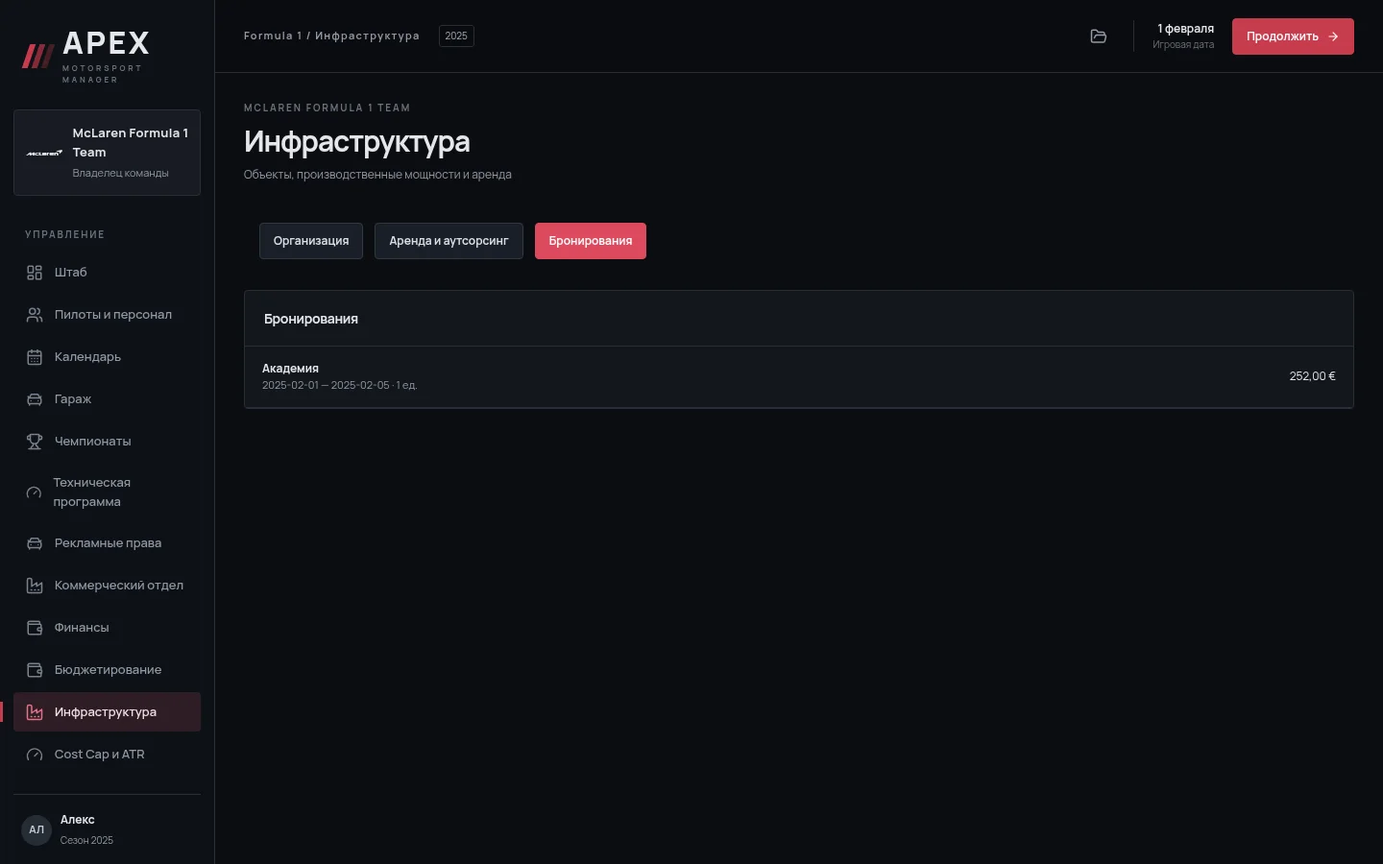
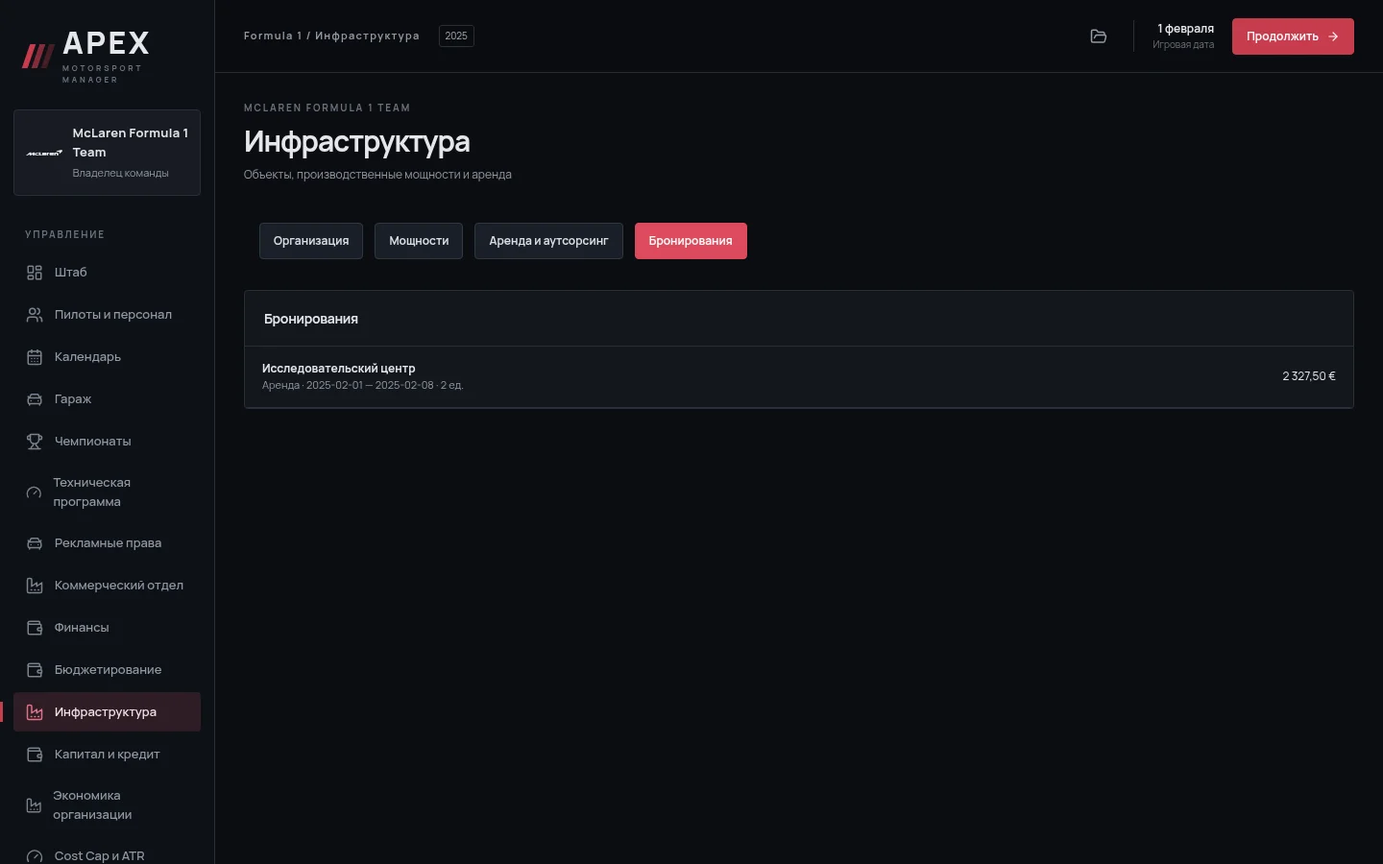
Зафиксировать источники, сравнение экономики и снимки интерфейсов PR #53

Changed region(s): [[0.2812, 0.2489, 0.5625, 0.3111], [0.0, 0.8711, 0.0938, 0.9956], [0.1875, 0.4044, 0.3125, 0.4667]]

diff --git a/docs/issue-6/season-2025.md b/docs/issue-6/season-2025.md
@@ -1,0 +1,92 @@
+# Партнёры сезона 2025 и повторная приёмка PR #53
+
+## Источники и покрытие
+
+В реестре 126 уникальных пар «бренд и организация» у 45 из 112 организаций с заявками. Для каждой пары сохранены первичная ссылка, программы, дата действия в игре и пояснение к свидетельству. На дату старта карьеры 1 февраля действуют 100 соглашений. Ещё 26 вступают в силу позднее в сезоне. В реестре 55 различных основных ссылок, у отдельных записей есть второй источник. Колонка соглашений включает одну и ту же связь во всех подтверждённых сериях. В игре ей соответствует один договор с единым графиком выплат. [Реестр с источником каждой записи](../../backend/data/finance/season-2025.json).
+
+| Чемпионат | Стартовых организаций | С подтверждением | Соглашений в серии |
+|---|---:|---:|---:|
+| Formula 1 | 10 | 10 | 33 |
+| FIA Formula 2 | 11 | 5 | 12 |
+| FIA Formula 3 | 10 | 3 | 10 |
+| DTM | 14 | 10 | 29 |
+| FIA WEC | 21 | 15 | 47 |
+| Italian F4 Championship | 12 | 1 | 1 |
+| Wera Tools British F4 Championship | 8 | 2 | 2 |
+| F4 Spanish Championship | 13 | 1 | 1 |
+| Formula Regional European Championship by Alpine | 11 | 1 | 1 |
+| FIA Karting European Championship · OK | 24 | 3 | 3 |
+| FIA Karting European Championship · OK-Junior | 23 | 2 | 2 |
+
+DAMS назвала коммерческих и технических партнёров своих обеих программ в заявлении к открытию сезона. Van Amersfoort Racing перечислила четыре серии, поддержанные Tricorp. У Toyota использован список партнёров именно программы WEC 2025. Соглашение OMP с заводской командой Tony Kart действовало в 2025 году. Расширение пакета на шлемы Bell объявлено на 2026 год. [DAMS](https://damslucasoil.com/2025/03/12/dams-lucas-oil-gears-up-for-f2-and-f3-opener-in-melbourne/) · [Van Amersfoort Racing](https://www.vanamersfoortracing.nl/news/2025/tricorp-workwear-and-van-amersfoort-racing-a-powerful-new-partnership/) · [Toyota](https://toyotagazooracing.com/wec/partners/2025/) · [OMP](https://www.us.ompracing.com/press-release/racing-force-group-strengthens-partnership-with-otk-kart-group-omp-kartwear-joined-by-bell-racing-helmets/).
+
+В Spanish F4 команда Monlau прямо указала Motul. У Land-Motorsport медийное соглашение Joyn ограничено уикендом 4–6 июля. У Landgraf права BWT и Windhager закреплены за разными машинами. Маркировка поставленного узла, реклама серии и личный партнёр отдельного пилота сами по себе не подтверждают командный договор. В интерфейсе используется текст бренда. [Monlau](https://monlau-motorsport.com/en/monlau-motul-ready-to-kick-off-the-2025-spanish-f4-season/) · [Land-Motorsport](https://land-motorsport.de/en/2025/07/joyn-us-media-partnership-with-prosieben/) · [Реестр с привязкой к серии](../../backend/data/finance/season-2025.json).
+
+### Организации без подтверждённой записи в указанной серии
+
+В перечисленных программах стартовый договор не вводился. Публичные данные не позволяют заключить, что у команды отсутствовали партнёры.
+
+- **FIA Formula 2** — AIX Racing, ART Grand Prix, Campos Racing, PREMA Racing, Rodin Motorsport, TRIDENT.
+- **FIA Formula 3** — AIX Racing, ART Grand Prix, Campos Racing, MP Motorsport, PREMA Racing, Rodin Motorsport, TRIDENT.
+- **DTM** — EMIL FREY RACING, Manthey EMA, Manthey Junior Team, Mercedes-AMG Team WINWARD.
+- **FIA WEC** — AF Corse, Ferrari AF Corse, Heart Of Racing Team, Proton Competition, Racing Spirit Of Leman, Team WRT.
+- **Italian F4 Championship** — AS Motorsport, Cram Motorsport, Jenzer Motorsport, Maffi Racing, PHM Racing, PREMA Racing, R-ace GP, Real Racing, Technorace Competition, US Racing, Viola Formula Racing.
+- **Wera Tools British F4 Championship** — Chris Dittmann Racing, Fortec Motorsport, JHR Developments, Rodin Motorsport, Virtuosi Racing, Xcel Motorsport.
+- **F4 Spanish Championship** — Campos Racing, DXR, Drivex, GRS Team, Griffin Core, KCL MP Motorsport, MP Motorsport, Rodin Motorsport, Saintéloc Racing, T-Code by Amtog, TC Racing, Tecnicar by Amtog.
+- **Formula Regional European Championship by Alpine** — AKCEL GP, ART Grand Prix, CL Motorsport, G4 Racing, MP Motorsport, PREMA Racing, R-ace GP, RPM, Saintéloc Racing, TRIDENT.
+- **FIA Karting European Championship · OK** — AKM Motorsport, ASD Monster K Factory Team, Birel ART Racing, CL Racing Team, CRG, DPK Racing, Energy Corse, Forza Racing, Fusion Motorsport, Hagemann Racing, KBK Competition, KR Motorsport, KRZ Motorsport, Koski Motorsport, MP Kartracing, Parolin Motorsport, Ricky Flynn Motorsport, VAR by Birel, VDK Racing, VictoryLane, Ward Racing.
+- **FIA Karting European Championship · OK-Junior** — AKM Motorsport, ASD Monster K Factory Team, Birel ART Racing, CRG, DPK Racing, Energy Corse, Forza Racing, Fusion Motorsport, GE.LU.MI.NI, Hagemann Racing, KR Motorsport, KRZ Motorsport, Karting Club Campillos, Koski Motorsport, MP Kartracing, Parolin Motorsport, Ricky Flynn Motorsport, TEPZ Racing Team, VDK Racing, VictoryLane, Ward Racing.
+
+## Условия и движение денег
+
+Размеры бюджетов и выплат, бонусы, права, периодичность, предпочтения и закрытые сроки смоделированы. Даты вне опубликованного срока обозначают период применения соглашения в карьере. Стартовый сектор самостоятельных брендов сохраняет прежние 172 530 000 EUR на 140 кошельках. Округление до цента распределяется по наибольшим остаткам. У 21 поставщика используются существующие счета организаций. В реестр входят 21 титульное соглашение, 10 генеральных, 39 технических и 56 других официальных партнёрств. Роль в коммерческой модели следует обозначению в источнике, а оценка суммы зависит от игровой категории.
+
+Команда делит общий конверт двух месячных фондов оплаты между партнёрами с весами 8, 4, 2 и 1 для титульного, генерального, технического и обычного партнёра. Один стартовый договор может занять до 20% годового бюджета бренда. Короткие периоды уменьшают фиксированную сумму пропорционально длительности. При подписании новые обязательства проверяются по годам платежа. Фактические списания ограничены деньгами и годовым маркетинговым бюджетом, заработанный неоплаченный бонус сохраняется в обязательствах.
+
+## Инфраструктура и перенос карьеры
+
+Исследовательский центр, конструкторское бюро и завод предоставляют отдельные ресурсы. Запрос окна дат возвращает уже подтверждённые заказы, собственные и арендованные слоты и доступную квалифицированную работу за день. Один коллектив нельзя одновременно целиком выделить нескольким площадкам. Уровень задаёт потолок параллельной работы, а штат, квалификация, загрузка, утомление и состояние оборудования определяют доступную производительность. Аренда защищает занятые даты. По программе F1 доступ к CFD и трубе проверяет квоту соответствующего оборудования.
+
+Для потребителей #45–52 предусмотрены `Access`, `ResourceGrant` и `CapacityWindow`. Завершение исследования, проектирование, выпуск компонента и его установка относятся к инженерным задачам. Учёт поездок остаётся совокупной финансовой статьёй.
+
+Схема 18 преобразует прежний логистический центр в склад компонентов. ID, балансовая стоимость, платежи, оставшийся срок строительства, улучшения и действующие брони сохраняются. На SQLite-карьере предыдущего коммита PR проверены открытая аренда, оплаченный объект, перенос архива и повторный экспорт. История проводок совпала. В отдельной новой карьере на 1 января 2028 года 135 команд и 24 закрытия месяца дали переносимый архив 18 383 727 байт. После загрузки повторный экспорт совпал побайтно, консолидированный финансовый отчёт также совпал. Существующие карьеры сохраняют свой исходный каталог рынка, повторное воспроизведение не выдаёт новых выплат задним числом.
+
+## Проверка в приложении
+
+В карьере владельца McLaren проверены отказ при нехватке бюджета на КБ, строительство склада и бронирование двух единиц исследовательской мощности на семь дней. После бронирования окно показало два свободных арендованных слота и восемь человеко-дней в сутки. В карьере DAMS проверены поиск Milwaukee, восемь договоров и переход к источнику договора OMP. Для каждого кадра проверена ширина страницы.
+
+| Экран | Компьютер 1440×900 | Телефон 390×844 |
+|---|---|---|
+| Смета строительства | [Открыть](screens/desktop-build-estimate.webp) | [Открыть](screens/mobile-build-estimate.webp) |
+| Объекты и ввод в эксплуатацию | [Открыть](screens/desktop-facilities.webp) | [Открыть](screens/mobile-facilities.webp) |
+| Бронирования | [Открыть](screens/desktop-leases.webp) | [Открыть](screens/mobile-leases.webp) |
+| Очереди и мощности | [Открыть](screens/desktop-process-capacity.webp) | [Открыть](screens/mobile-process-capacity.webp) |
+| Поиск бренда | [Открыть](screens/desktop-brand-search.webp) | [Открыть](screens/mobile-brand-search.webp) |
+| Стартовые договоры | [Открыть](screens/desktop-season-partners.webp) | [Открыть](screens/mobile-season-partners.webp) |
+| Условия и подтверждающий источник | [Открыть](screens/desktop-season-agreement.webp) | [Открыть](screens/mobile-season-agreement.webp) |
+
+## Экономика до и после расширения
+
+Те же 142 организации, те же роли, серии и seed на коммитах `04c253f` и `f50e020`. В каждой ячейке сначала результат прежней версии, затем результат расширенного рынка. Количество договоров и выплат суммируется с начала карьеры. Банкротства отражают статус организаций на конечную дату.
+
+| Карьера | Проводки | Договоры спонсоров | Технические поставки | Кредиты | Сделки с долями | Новые программы | Банкротства |
+|---|---:|---:|---:|---:|---:|---:|---:|
+| F1 · 42 | 313 376 → 332 856 | 2 594 → 4 785 | 387 → 399 | 36 → 37 | 15 → 20 | 1 → 5 | 6 → 5 |
+| WEC · 88 | 154 404 → 164 334 | 1 256 → 2 364 | 192 → 194 | 22 → 18 | 17 → 16 | 3 → 5 | 5 → 4 |
+| Spanish F4 · 17 | 156 982 → 166 770 | 1 288 → 2 453 | 191 → 191 | 16 → 14 | 10 → 15 | 2 → 4 | 4 → 3 |
+
+| Карьера | Выплаты спонсоров за первый год, EUR | Выплаты за весь период, EUR | Организации с отрицательным операционным денежным потоком за последний год | Всего денег в мире до и после, EUR |
+|---|---:|---:|---:|---:|
+| F1 · 42 | 10 333 139,98 → 14 812 498,07 | 120 791 420,91 → 210 258 525,94 | 76 → 82 | 2 154 283 121,20 |
+| WEC · 88 | 9 251 052,87 → 14 102 052,84 | 80 035 864,54 → 115 743 742,58 | 71 → 77 | 2 160 796 101,52 |
+| Spanish F4 · 17 | 10 333 692,84 → 14 806 185,64 | 91 148 457,97 → 127 205 670,64 | 81 → 79 | 2 155 799 299,60 |
+
+За 480 месячных закрытий сверено 663 960 новых проводок. После каждого месяца остатки каждого кошелька совпали с суммой движений. Повторяющихся ключей, отрицательных остатков, выплат сверх годового бюджета бренда и изменений в спортивных результатах не обнаружено. Во всех одиннадцати классах остались допущенные программы.
+
+Расширение числа брендов увеличило число отдельных переговоров и договоров NPC и фактический оборот по спонсорским платежам. Привязка стартовой суммы к общему фонду команды ограничивает эффект от длинного списка партнёров одного коллектива. Сохранение общей денежной массы при росте выплат отражает оборот между кошельками. В выборке сохранились организации с отрицательным операционным денежным потоком. Этот показатель учитывает фактические платежи за последние двенадцать месяцев и отличается от прибыли по начислению. Число банкротств измерялось после прогона и не использовалось как целевая величина.
+
+Воспроизведение из корня репозитория с `PYTHONPATH=.` и `uv run --locked python tests/finance_endurance.py` для наборов `--years 20 --series f1 --seed 42`, `--years 10 --series wec --seed 88` и `--years 10 --series f4-es --seed 17`. Для исходной версии тот же измерительный скрипт запускался с `PYTHONPATH`, указывающим на рабочее дерево `04c253f`. [Сценарий и ежемесячные инварианты](../../tests/finance_endurance.py).
+
+## Регрессионные проверки
+
+Локально прошли 123 теста backend с зависимостями studio-tools и 48 проверок Playwright в Chromium на двух ширинах. Прошли Ruff, ESLint, TypeScript и production-сборка Vite. Проверки включают кадровую систему и подготовку, гараж и рекламные права, статистику, все 11 видов стройки и обслуживания, модернизацию, аренду, отказ при исчерпании квоты ATR, повтор платежа и перенос карьеры. Отдельный тест воспроизводит конкуренцию двух арендаторов после сокращения мощности оператора.

diff --git a/docs/issue-6/README.md b/docs/issue-6/README.md
@@ -42,7 +42,7 @@
 
 ## 6.5 — Инфраструктура, строительство и аренда
 
-- [x] Аэротруба, CFD, симулятор, производство, стенды, академия, логистика, штаб-квартира; строительство, сроки, мощности, обслуживание, персонал, модернизация, устаревание, аренда/аутсорсинг в пределах регламента.
+- [x] Штаб-квартира, исследовательский центр, конструкторское бюро, производство, аэротруба, CFD, испытательные стенды, симулятор, академия, склад компонентов и контроль качества; строительство, сроки, мощности, обслуживание, персонал, модернизация, устаревание, аренда/аутсорсинг в пределах регламента.
 - [x] География базы влияет на обоснованные игровые расходы и доступность кадров, без налогового симулятора.
 - [x] Связь с #7: качество инфраструктуры влияет на испытания/корреляцию, не гарантирует улучшение.
 - [x] Приёмка: стройка занимает время и деньги, аренда, ограничение мощности, обслуживание, миграция и сохранение.
@@ -74,7 +74,7 @@
 
 Денежная единица API и SQLite — цент евро. Начальные остатки и все движения хранятся в posting. Команды, обязательства, обе стороны перевода и квитанция входят в транзакцию карьеры. Программа и группа получают средства только из явного перевода. При обновлении прежней карьеры начальная проводка внешнего плательщика восстанавливает разницу между его сохранившимися деньгами и прежними движениями. Дата активации сохраняется для replay. Финансовый директор — именное назначение сотрудника с бюджетной или коммерческой квалификацией.
 
-Выплаты за подтверждённые спортивные и коммерческие события принимаются через внутренний типизированный контракт с версией регламента. Логистика зависит от серии и фактического участия заявки. Тарифы перевозки — игровые оценки. Размер неизвестных призовых и продажи будущей атрибутики при продвижении календаря не генерируются. Проводки доступны существующему статистическому API, обязательства индексируются как внутренние факты сторон.
+Выплаты за подтверждённые спортивные и коммерческие события принимаются через внутренний типизированный контракт с версией регламента. Совокупные расходы на поездку зависят от серии и фактического участия заявки. Тарифы — игровые оценки. Размер неизвестных призовых и продажи будущей атрибутики при продвижении календаря не генерируются. Проводки доступны существующему статистическому API, обязательства индексируются как внутренние факты сторон.
 
 Девять тестов в backend/test_finance.py прошли. Проверены параллельный повтор перевода, консолидация, просрочка зарплаты и последующая оплата, возврат аванса, прогноз против факта, миграция, перенос сохранения, неденежная поставка и CSV. Проверен реальный перевод 1 250,75 EUR, фильтрация журнала и выгрузка на локальном приложении. Снимки пяти разделов сохранены для 1440×900 и 390×844 в screens.
 
@@ -82,9 +82,11 @@
 
 ### Каталог и правила рынка #28
 
-Стартовый рынок включает 50 самостоятельных брендов и 21 действующего поставщика двигателей, трансмиссий и шин. Исходные записи находятся в `backend/data/finance/brands.csv`. Предпочтения, размер бюджета, срок, выплаты, репутационные требования, интерес к вымышленным пилотам и стратегия переговоров — параметры игры. Бюджет спонсора ограничен начальным остатком и занятыми средствами. Для поставщика используется существующий счёт производителя. Технические результаты возникают только в подсистеме-источнике.
+[Реестр источников, покрытие по сериям и повторная приёмка PR #53](season-2025.md).
 
-В файле `backend/data/finance/partners.json` у каждой из 14 стартовых записей свой источник. Toyota и Hitech подтверждают стратегическое сотрудничество в младших формулах. Cadillac Hertz Team JOTA и Porsche Penske Motorsport представлены в WEC, Red Bull и ABT в DTM. Для Williams дата начала учитывает февральское объявление. Закрытые финансовые условия этих партнёрств смоделированы. [Toyota](https://global.toyota/en/newsroom/corporate/42039574.html) · [Hitech](https://www.hitechgp.co.uk/about/) · [Porsche](https://newsroom.porsche.com/en/2025/motorsports/porsche-fia-wec-race-4-le-mans-strong-partners-39758.html) · [WEC](https://www.fiawec.com/en/news/covers-come-off-first-cadillac-hertz-team-jota-hypercar/8186) · [DTM](https://dtm.com/en/news/Abt-Sportsline-lines-up-with-the-DTM-title-holder-and-a-world-champion) · [Williams](https://www.williamsf1.com/articles/8576c1c3-5ef0-44f3-bc6f-7e2b0073599f/atlassian-williams-racing-unveils-its-2025-formula-1-livery-and-celebrates-new-title-partner).
+Стартовый рынок включает 140 самостоятельных брендов и 21 действующего поставщика двигателей, трансмиссий и шин. Профили находятся в `backend/data/finance/brands.csv` и `season-brands.csv`. Предпочтения, размер бюджета, срок, выплаты, репутационные требования, интерес к вымышленным пилотам и стратегия переговоров — параметры игры. Бюджет спонсора ограничен начальным остатком и занятыми средствами. Для поставщика используется существующий счёт производителя. Технические результаты возникают только в подсистеме-источнике.
+
+Для новых карьер источники и программы 126 соглашений хранятся в `backend/data/finance/season-2025.json`. Файл `partners.json` воспроизводит 14 соглашений прежней версии сохранений. Toyota и Hitech подтверждают стратегическое сотрудничество в младших формулах. Cadillac Hertz Team JOTA и Porsche Penske Motorsport представлены в WEC, Red Bull и ABT в DTM. Для Williams дата начала учитывает февральское объявление. Закрытые финансовые условия этих партнёрств смоделированы. [Toyota](https://global.toyota/en/newsroom/corporate/42039574.html) · [Hitech](https://www.hitechgp.co.uk/about/) · [Porsche](https://newsroom.porsche.com/en/2025/motorsports/porsche-fia-wec-race-4-le-mans-strong-partners-39758.html) · [WEC](https://www.fiawec.com/en/news/covers-come-off-first-cadillac-hertz-team-jota-hypercar/8186) · [DTM](https://dtm.com/en/news/Abt-Sportsline-lines-up-with-the-DTM-title-holder-and-a-world-champion) · [Williams](https://www.williamsf1.com/articles/8576c1c3-5ef0-44f3-bc6f-7e2b0073599f/atlassian-williams-racing-unveils-its-2025-formula-1-livery-and-celebrates-new-title-partner).
 
 В браузере на 1440×900 и 390×844 проверены поиск компании, отправка предложения, встречные условия, подписание и просмотр договора. Расходы на поставку, скидка и перечисления спонсора имеют раздельные основания. Форма допускает выбор только поставки и отказ от рекламы. Конфликт сделки откатывает её в транзакции команды.
 
@@ -108,7 +110,7 @@
 
 ### Инфраструктура #31
 
-Восемь типов объектов имеют разные сроки, обслуживание, потребность в операторах и стоимость капитала. Шесть вариантов расположения задают игровые индексы стройки, персонала и транспортировки. Подтверждённые перевозки используют индекс действующего логистического центра или штаб-квартиры. Износ влияет на мощность и балансовую стоимость. Модернизация выводит объект из эксплуатации; занятые даты защищены. Собственные и арендованные слоты учитываются при назначении подготовки персонала. Для платного аутсорсинга платёж получает оператор. Контракт ResourceGrant передаёт подтверждённую мощность, состояние, авторизацию и уровень оборудования будущему инженерному потребителю.
+Одиннадцать типов объектов имеют разные сроки, обслуживание, потребность в операторах и стоимость капитала. Шесть вариантов расположения задают игровые индексы стройки, персонала и транспортировки. Для совокупных расходов на поездки учитывается расположение действующей штаб-квартиры. Износ влияет на мощность и балансовую стоимость. Модернизация выводит объект из эксплуатации; занятые даты защищены. Собственные и арендованные слоты учитываются при назначении подготовки персонала. Для платного аутсорсинга платёж получает оператор. Контракт ResourceGrant передаёт подтверждённую мощность, состояние, авторизацию и уровень оборудования будущему инженерному потребителю.
 
 Тесты проверили начало и завершение строительства, модернизацию, обслуживание, полную загрузку оператора, недопустимое повторное использование, типизированный доступ к оборудованию и импорт. На компьютере и телефоне построен симулятор и забронирован внешний объект; снимки facilities и leases.
 
@@ -180,12 +182,14 @@
 
 ### Границы данных
 
-Подтверждённые партнёры покрывают 14 стартовых соглашений. Каталог потенциальных партнёров шире. Источники устанавливают бренд и факт партнёрства. Объём средств, срок, бонусы, исключительность, интерес к игровой организации и коэффициенты спроса — игровые оценки. Цены сооружений, географические индексы, решение кредитора и дисконт оценки организации также являются параметрами модели. Баланс на десятилетия проверяется на конкретных начальных состояниях и чувствителен к решениям руководителя.
+В сезонном реестре 126 соглашений у 45 из 112 стартовых организаций с заявками. Каталог потенциальных партнёров шире. Источники устанавливают бренд и факт партнёрства. Объём средств, срок, бонусы, исключительность, интерес к игровой организации и коэффициенты спроса — игровые оценки. Цены сооружений, географические индексы, решение кредитора и дисконт оценки организации также являются параметрами модели. Баланс на десятилетия проверяется на конкретных начальных состояниях и чувствителен к решениям руководителя.
 
 Регламенты и стартовый спортивный календарь привязаны к опубликованным версиям. Финансовые месяцы продолжают договорную жизнь мира. Факты о новых результатах, омологации, медийных выступлениях и спортивном допуске поступают через соответствующие типизированные контракты. Объём работы поставщика и маркетинговый охват в экономическом отчёте отражают только полученные акты и публикации.
 
 
-### Результаты многосезонной проверки
+### Исходные результаты до расширения рынка (04c253f)
+
+Повтор тех же сценариев после доработки PR и границы подтверждённых данных приведены в [отчёте сезона 2025](season-2025.md).
 
 | Карьера наблюдателя | Лет | Проводок | Спонсорских договоров | Поставок | Кредитов | Сделок с долями | Новых программ | Банкротств | Инвариант общей суммы, EUR |
 |---|---:|---:|---:|---:|---:|---:|---:|---:|---:|
